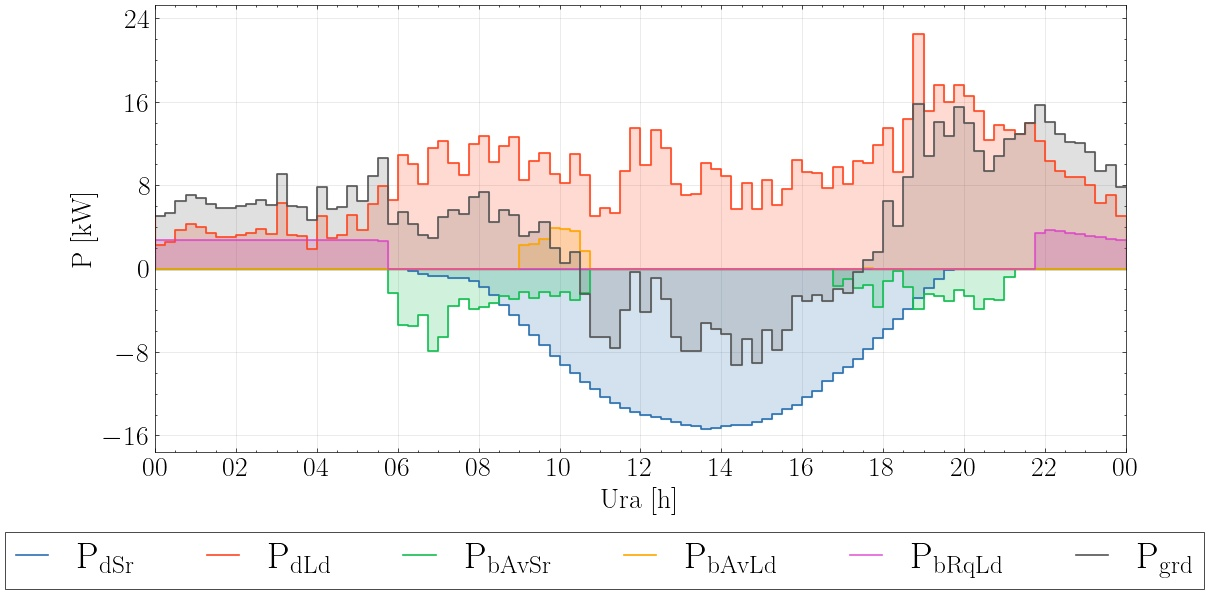
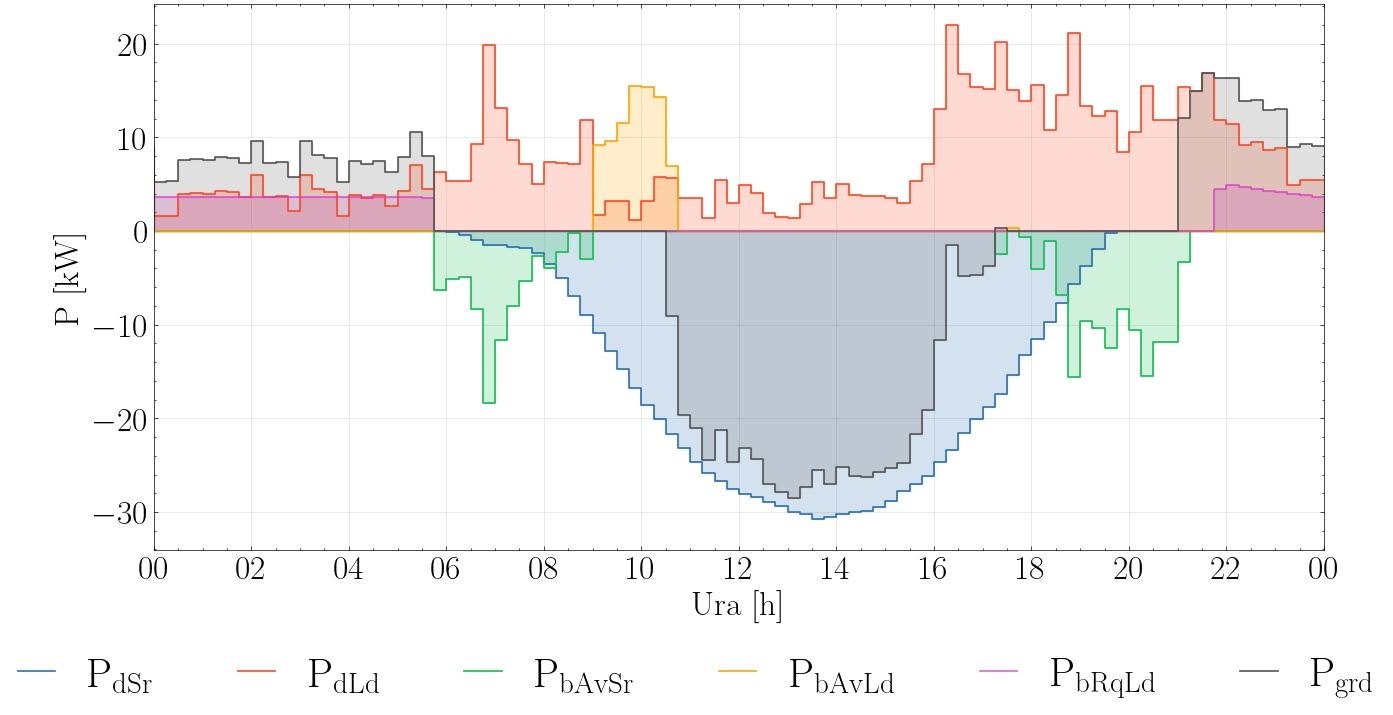
sad

diff --git a/SimulatorUser/ExportData/lepo.py b/SimulatorUser/ExportData/lepo.py
@@ -125,7 +125,7 @@ def drawingPriceGraph4Users(FileDirecotoryUserData, TestNumber, DatetTimeTest, A
         ax4.set_title('ODJEMALEC D',fontsize=fntSize)
 
         handles, labels = ax4.get_legend_handles_labels()
-        leg=fig.legend( handles, labels,loc='upper center', bbox_to_anchor=(0.5,0.1),ncol=6,fontsize=fntSize+6,edgecolor="black",fancybox=False,handlelength=0.9,borderpad=0.3)
+        leg=fig.legend( handles, labels,loc='upper center', bbox_to_anchor=(0.5,0.1),ncol=6,fontsize=fntSize+4,edgecolor="black",fancybox=False,handlelength=0.9,borderpad=0.3, frameon=False)
         leg.get_frame().set_linewidth(0.5)
         fig.set_constrained_layout_pads(hspace=0.4)
 
@@ -179,7 +179,8 @@ def drawingPowerGraph4Users(FileDirecotoryUserData, TestNumber, DatetTimeTest, A
         ax4.set_title('ODJEMALEC D',fontsize=fntSize)
 
         handles, labels = ax4.get_legend_handles_labels()
-        leg=fig.legend( handles, labels,loc='upper center', bbox_to_anchor=(0.5,0.1),ncol=6,fontsize=fntSize+6,edgecolor="black",fancybox=False,handlelength=0.9,borderpad=0.3)
+        leg=fig.legend( handles, labels,loc='upper center', bbox_to_anchor=(0.5,0.1),ncol=6,fontsize=fntSize+4,edgecolor="black",fancybox=False,handlelength=0.9,borderpad=0.3, frameon=False)
+        
         leg.get_frame().set_linewidth(0.5)
         fig.set_constrained_layout_pads(hspace=0.4)
 
@@ -211,7 +212,6 @@ def drawingPowerSystemGraph(FileDirecotoryUserData, TestNumber, DatetTimeTest, A
                 for x in range (len(UserData[0])):
                     SystemData[y][x]+=UserData[y][x]
 
-
     for y in range (1,8):
         for x in range (len(SystemData[0])):
             Power=SystemData[y][x]
@@ -223,22 +223,29 @@ def drawingPowerSystemGraph(FileDirecotoryUserData, TestNumber, DatetTimeTest, A
 
     with plt.style.context(['science', 'grid']):
     
-        fntSize=20
+        fntSize=24
 
         gridsize = (26, 24)
-        fig = plt.figure(figsize=(14, 6),constrained_layout=True)
-
-        ax=plt.subplot2grid(gridsize,(0, 3), colspan=18, rowspan=22)
+        fig = plt.figure(figsize=(14, 7),constrained_layout=True)
+        ax=plt.subplot2grid(gridsize,(0, 1), colspan=22, rowspan=23)
 
         drawingPowerGraph(ax,SystemData,PowerLow,PowerHigh,fntSize)
         
         handles, labels = ax.get_legend_handles_labels()
-        leg=fig.legend( handles, labels,loc='upper center', bbox_to_anchor=(0.5,0.145),ncol=6,fontsize=fntSize+6,edgecolor="black",fancybox=False,handlelength=0.9,borderpad=0.3)
+        leg=fig.legend( handles, labels,loc='upper center', bbox_to_anchor=(0.5,0.11),ncol=6,fontsize=fntSize+6,edgecolor="black",fancybox=False,handlelength=0.9,borderpad=0.3, frameon=False)
+
+        ax.set_ylabel('P [kW]',fontsize=fntSize)
+        ax.set_xlabel('Ura [h]',fontsize=fntSize)
+
+        ax.xaxis.set_tick_params(labelsize=fntSize)
+        ax.yaxis.set_tick_params(labelsize=fntSize)
+        
         leg.get_frame().set_linewidth(0.5)
         fig.set_constrained_layout_pads(hspace=0.4)
 
         plt.rcParams["font.family"] = "serif"
         plt.rcParams["font.serif"] = "Times New Roman"
+
 
         plt.savefig("Test "+str(TestNumber)+" EnergySystem.jpg", format="jpg")
 
@@ -310,10 +317,13 @@ def drawingPriceGraph(axs,UserData,PowerLow,PowerHigh,fntSize):
 
     axs.set_xlabel('Ura [h]',fontsize=fntSize)
     axs.set_ylabel('Cena EE [¢/kWh]',fontsize=fntSize)
-
+        
+    plt.rcParams["font.family"] = "serif"
+    plt.rcParams["font.serif"] = "Times New Roman"
 
     axs.xaxis.set_tick_params(labelsize=fntSize)
     axs.yaxis.set_tick_params(labelsize=fntSize)
+
 
     PowerHigh=1.1*math.ceil(PowerHigh)
     PowerLow=1.1*math.floor(PowerLow)
@@ -325,8 +335,7 @@ def drawingPriceGraph(axs,UserData,PowerLow,PowerHigh,fntSize):
 
     axs.set_ylim(-23.5,23.5)
 
-    
-
+ 
 def drawingSOCGraaph(FileDirecotoryUserData, TestNumber, DatetTimeTest, ArrUserNumber):
 
     NumberOfUser=len(ArrUserNumber)
@@ -335,11 +344,11 @@ def drawingSOCGraaph(FileDirecotoryUserData, TestNumber, DatetTimeTest, ArrUserN
 
         colorArray=["#2C71B0","#FF4822","#14be53","orange","#dd37cc","#555555"]
     
-        fntSize=20
+        fntSize=24
 
         gridsize = (26, 24)
-        fig = plt.figure(figsize=(14, 6),constrained_layout=True)
-        ax=plt.subplot2grid(gridsize,(0, 3), colspan=18, rowspan=22)
+        fig = plt.figure(figsize=(14, 7),constrained_layout=True)
+        ax=plt.subplot2grid(gridsize,(0, 1), colspan=22, rowspan=23)
 
         i=0
 
@@ -352,34 +361,34 @@ def drawingSOCGraaph(FileDirecotoryUserData, TestNumber, DatetTimeTest, ArrUserN
             
             if SOChsb[0]!=None:
 
-                lab="{$\mathrm{SOC_{BH"+str(chr(65+q))+"}"+"}"+"$}"
+                lab="{$\mathrm{SBH_{"+str(chr(65+q))+"}"+"}"+"$}"
                 
                 ax.plot(Time,SOChsb, alpha=1,label=lab,color=colorArray[i],linewidth=1.2)
                 i+=1
             if SOCcar[0]!=None:
 
-                lab="{$\mathrm{SOC_{EV"+str(chr(65+q))+"}"+"}"+"$}"
+                lab="{$\mathrm{SEV_{"+str(chr(65+q))+"}"+"}"+"$}"
 
                 ax.plot(Time,SOCcar, alpha=1,label=lab,color=colorArray[i],linewidth=1.2)
                 i+=1
 
 
         ax.xaxis.set_major_formatter(mdates.DateFormatter('%H'))
-        ax.xaxis.set_major_locator(mdates.HourLocator(interval = 4))
+        ax.xaxis.set_major_locator(mdates.HourLocator(interval = 2))
         ax.yaxis.set_major_locator(MaxNLocator(integer=True))
-        ax.grid(b=True, which='major', color='#444444', linestyle='-', alpha=0.2)
+        ax.grid(b=True, which='major', color='#444444', linestyle='-', alpha=0.25)
 
-        ax.set_xlabel('Ura [h]',fontsize=fntSize)
-        ax.set_ylabel("SOC [%]",fontsize=fntSize)
 
+        leg=fig.legend(loc='upper center', bbox_to_anchor=(0.5,0.11),ncol=6,fontsize=fntSize,edgecolor="black",fancybox=False,handlelength=0.9,borderpad=0.3, frameon=False)
+       
         ax.set_xlim(Time[0],Time[len(Time)-1])
         ax.set_ylim(0.1,100)
+        ax.set_ylabel('Napolnjenost baterije [\%]',fontsize=fntSize)
+        ax.set_xlabel('Ura [h]',fontsize=fntSize)
 
         ax.xaxis.set_tick_params(labelsize=fntSize)
         ax.yaxis.set_tick_params(labelsize=fntSize)
-        
 
-        leg=fig.legend(loc='upper center', bbox_to_anchor=(0.5,0.145),ncol=6,fontsize=fntSize+4,edgecolor="black",fancybox=False,handlelength=0.9,borderpad=0.3)
         leg.get_frame().set_linewidth(0.5)
         fig.set_constrained_layout_pads(hspace=0.4)
 
@@ -387,16 +396,17 @@ def drawingSOCGraaph(FileDirecotoryUserData, TestNumber, DatetTimeTest, ArrUserN
         plt.rcParams["font.serif"] = "Times New Roman"
 
         plt.savefig("Test "+str(TestNumber)+" SOC.jpg", format="jpg")
-
         #plt.show()
+
+
 
 SelectedUser=[1,1,1,1]
 FileDirecotory="./"
 DateTime="01/02/2022 00:30"
 
-#for i in range (1,6):
-TestNumber=3030
-drawingPowerGraph4Users(FileDirecotory, TestNumber, DateTime,SelectedUser)
-drawingPowerSystemGraph(FileDirecotory, TestNumber, DateTime,SelectedUser)
-drawingSOCGraaph(FileDirecotory, TestNumber, DateTime,SelectedUser)
-drawingPriceGraph4Users(FileDirecotory, TestNumber, DateTime,SelectedUser)
+for i in range (1,6):
+    TestNumber=i
+    drawingPowerGraph4Users(FileDirecotory, TestNumber, DateTime,SelectedUser)
+    drawingPowerSystemGraph(FileDirecotory, TestNumber, DateTime,SelectedUser)
+    drawingSOCGraaph(FileDirecotory, TestNumber, DateTime,SelectedUser)
+    drawingPriceGraph4Users(FileDirecotory, TestNumber, DateTime,SelectedUser)
